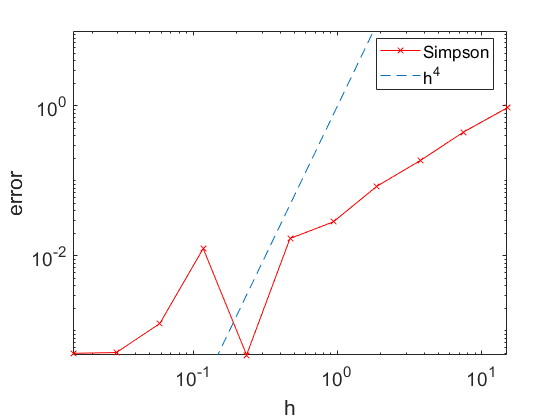
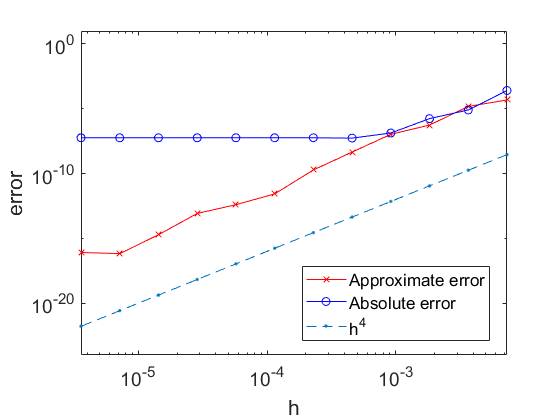
Ändringar i convergence_study

diff --git a/konvergensstudie_slides.m b/konvergensstudie_slides.m
@@ -15,16 +15,17 @@ for i=1:10
   S2h = time_to_destination_simpson(b, route, n/2);
   fprintf('%6i %10.2e %10.2e %15.2f %15.2f\n', n, Iref-Th, Iref-Sh, (Iref-T2h)/(Iref-Th), (Iref-S2h)/(Iref-Sh))
   ET(i) = abs(Iref-S2h);
-  ES(i) = abs(Iref-Sh);  
+  ES(i) = abs(Iref-Sh); 
+  ER(i) = abs(Sh-S2h)/15;
   h(i) = (b-a)/n;
   n = 2*n;
 end
 
 figure(1);clf
-loglog(h,ET,'o-b',h,ES,'x-r')
+loglog(h,ER,'o-b')%,h,ES,'x-r')
 hold on
 loglog(h,h.^2,'--',h,h.^4,'-.')
-legend('Simspon(2h)','Simpson','h^2','h^4','Location','Best')
+legend('Simpson(2h)','Simpson','h^2','h^4','Location','Best')
 xlabel('h')
 ylabel('Fel')
 set(gca,'FontSize',14)

diff --git a/time_to_destination_simpson.m b/time_to_destination_simpson.m
@@ -13,7 +13,6 @@ load(route);
 x_points = linspace(0, x, n+1);
 
 % S = h/3(f(x_0)+4f(x_1)+2f(x_2)+...+4f(x_n-1)+f(x_n))
-
 y_points = velocity(x_points, route).^(-1);
 third_of_interval = (x_points(2) - x_points(1))/3;
 
